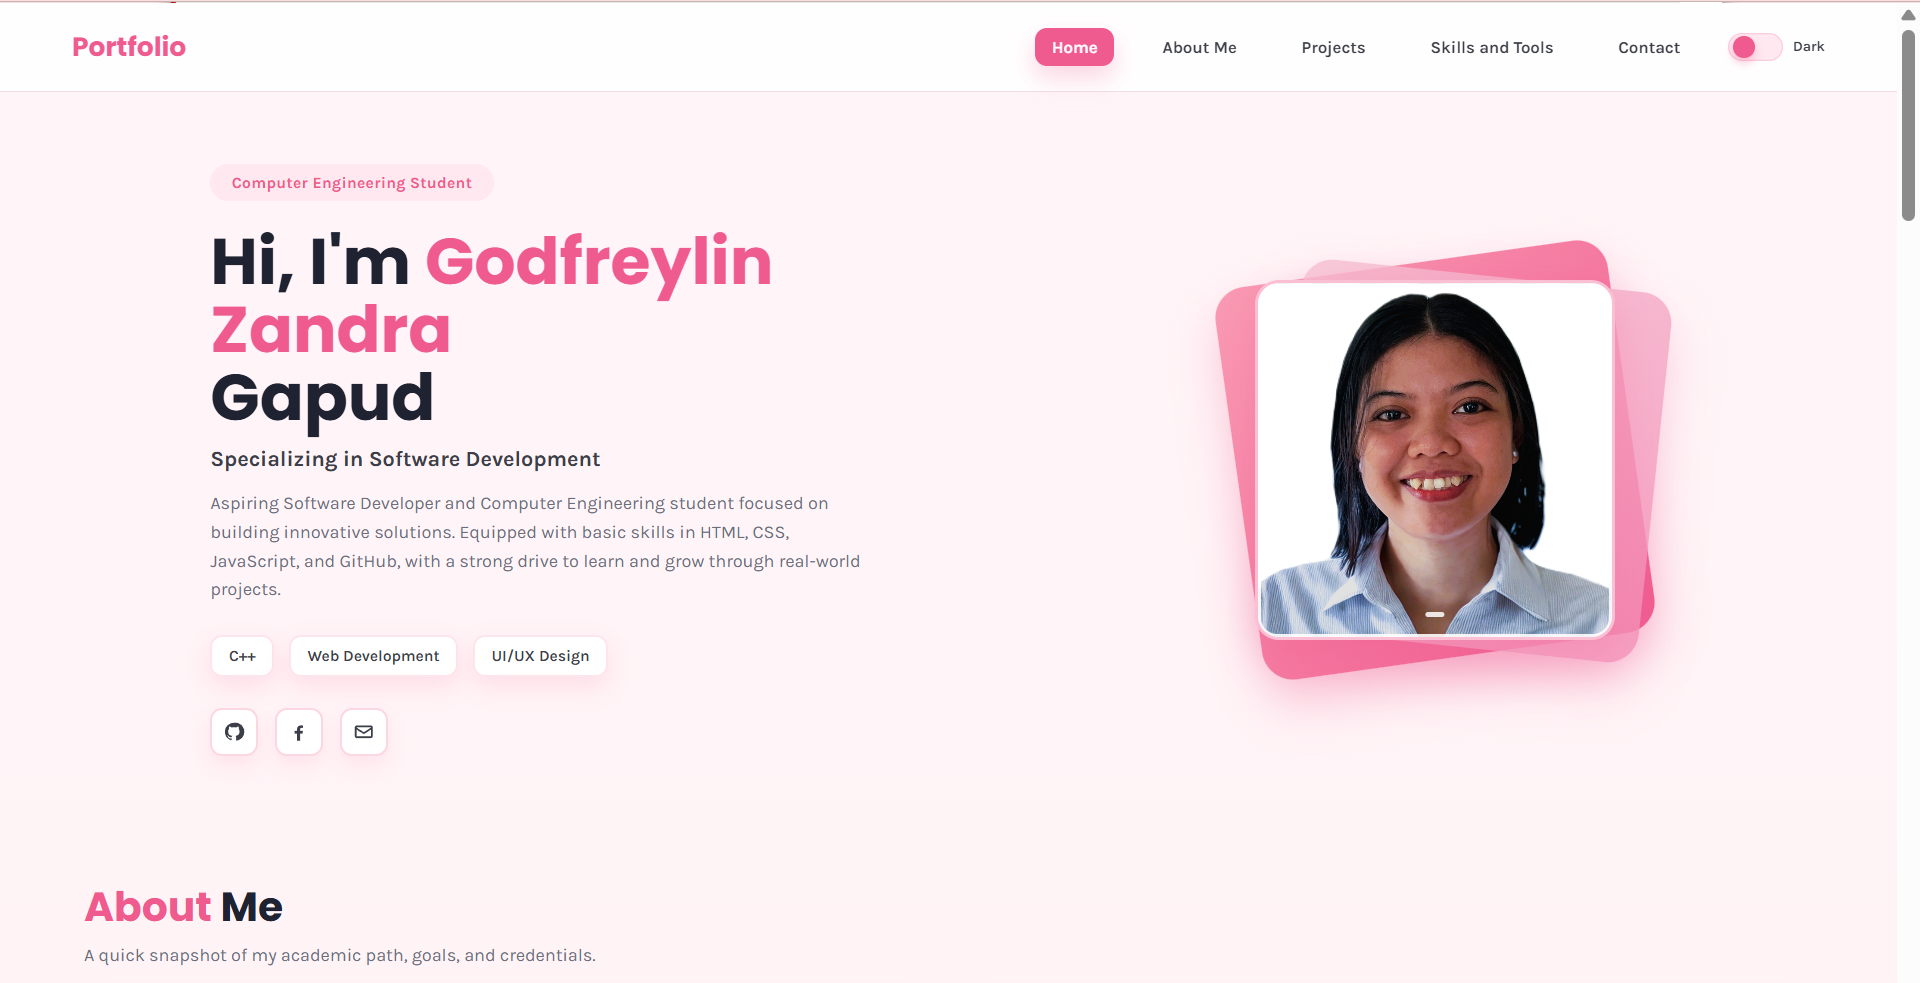
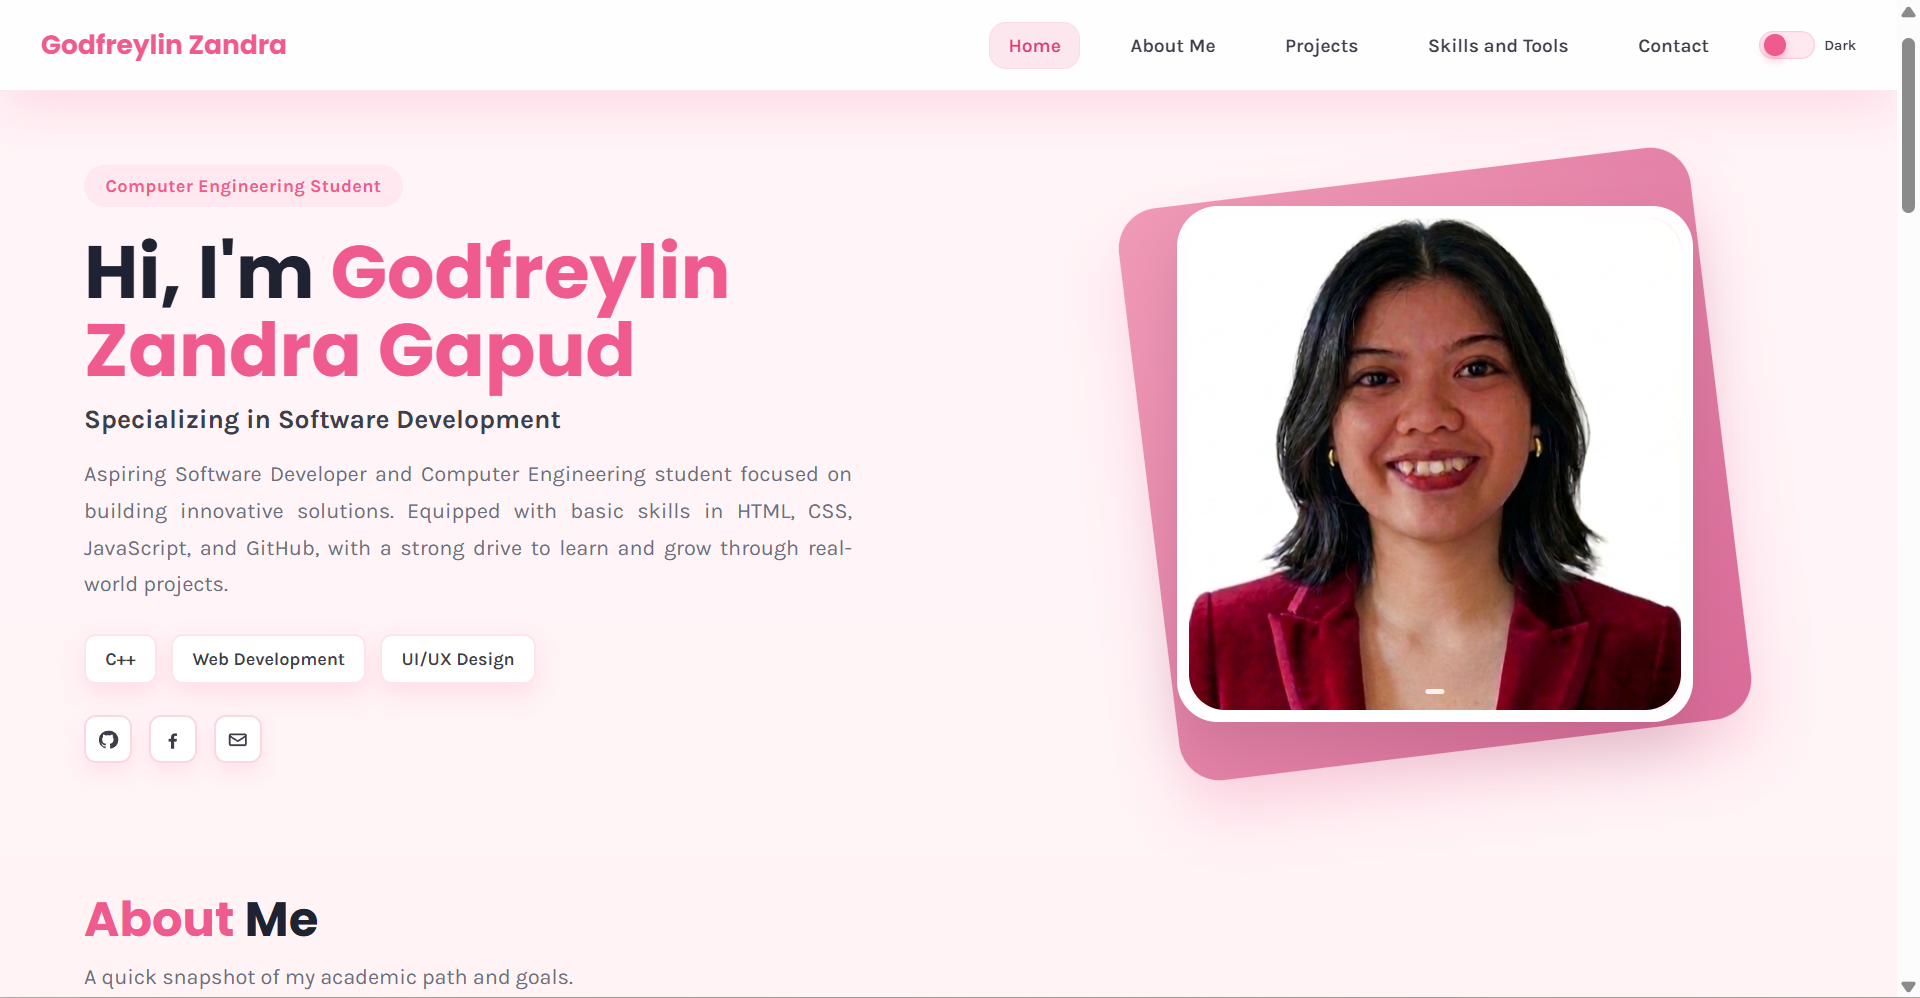
update

diff --git a/docs/style.css b/docs/style.css
@@ -297,12 +297,13 @@ h1 span {
   background-image: var(--photo-url);
   background-size: cover;
   background-position: center;
-  border: 6px solid rgba(255, 255, 255, 0.96);
+  /* No inner border so the photo occupies the outer hero-art frame */
+  border: none;
   display: grid;
   place-items: center;
   position: relative;
   overflow: hidden;
-  box-shadow: 0 20px 36px rgba(30, 18, 30, 0.12);
+  box-shadow: none;
 }
 
 .photo-hint {
@@ -1203,6 +1204,48 @@ h1 span {
   }
 }
 
+/* Small-screen contact fixes */
+@media (max-width: 520px) {
+  .contact-card {
+    padding: 18px;
+    border-radius: 18px;
+  }
+
+  .contact-item {
+    gap: 10px;
+  }
+
+  .contact-icon {
+    width: 40px;
+    height: 40px;
+    border-radius: 12px;
+  }
+
+  .contact-item strong {
+    font-size: 16px;
+  }
+
+  .connect-icons a {
+    width: 44px;
+    height: 44px;
+    border-radius: 12px;
+  }
+
+  .contact-form input,
+  .contact-form textarea {
+    font-size: 15px;
+    padding: 12px;
+  }
+
+  /* Make the submit button full width and easier to tap on mobile */
+  .submit-btn {
+    width: 100%;
+    padding: 12px 16px;
+    border-radius: 12px;
+    justify-content: center;
+  }
+}
+
 body.theme-dark {
   color: #e7e9ee;
   background: linear-gradient(180deg, #1b1622 0%, #15121c 35%, #120f18 100%);
@@ -1293,8 +1336,10 @@ body.theme-dark .about-card {
 }
 
 body.theme-dark .photo-frame {
+  /* Keep no inner border in dark mode so the outer frame is the visible border */
   background-color: #3a2a3a;
-  border-color: #2a2433;
+  border: none;
+  box-shadow: none;
 }
 
 body.theme-dark .photo-hint {

diff --git a/docs/index.html b/docs/index.html
@@ -85,7 +85,7 @@
 
         <div class="hero-art">
           <div class="card">
-            <div class="photo-frame" style="--photo-url: url('photo.jpg');">
+            <div class="photo-frame" style="--photo-url: url('IDphoto.png');">
               <span class="photo-hint"></span>
             </div>
            
@@ -97,7 +97,7 @@
         <div class="section-title">
           <span>About</span> Me
         </div>
-        <div class="section-subtitle">A quick snapshot of my academic path, goals, and credentials.</div>
+        <div class="section-subtitle">A quick snapshot of my academic path and goals.</div>
 
         <div class="about-grid">
           <article class="about-card career-card">
@@ -143,7 +143,7 @@
         <div class="section-title">
           My <span>Projects</span>
         </div>
-        <div class="section-subtitle">Selected work highlighting embedded systems and hardware-software innovation.</div>
+        <div class="section-subtitle">  Selected projects showcasing software development, system design, and practical innovation.</div>
 
         <div class="project-grid">
           <article class="project-card">
